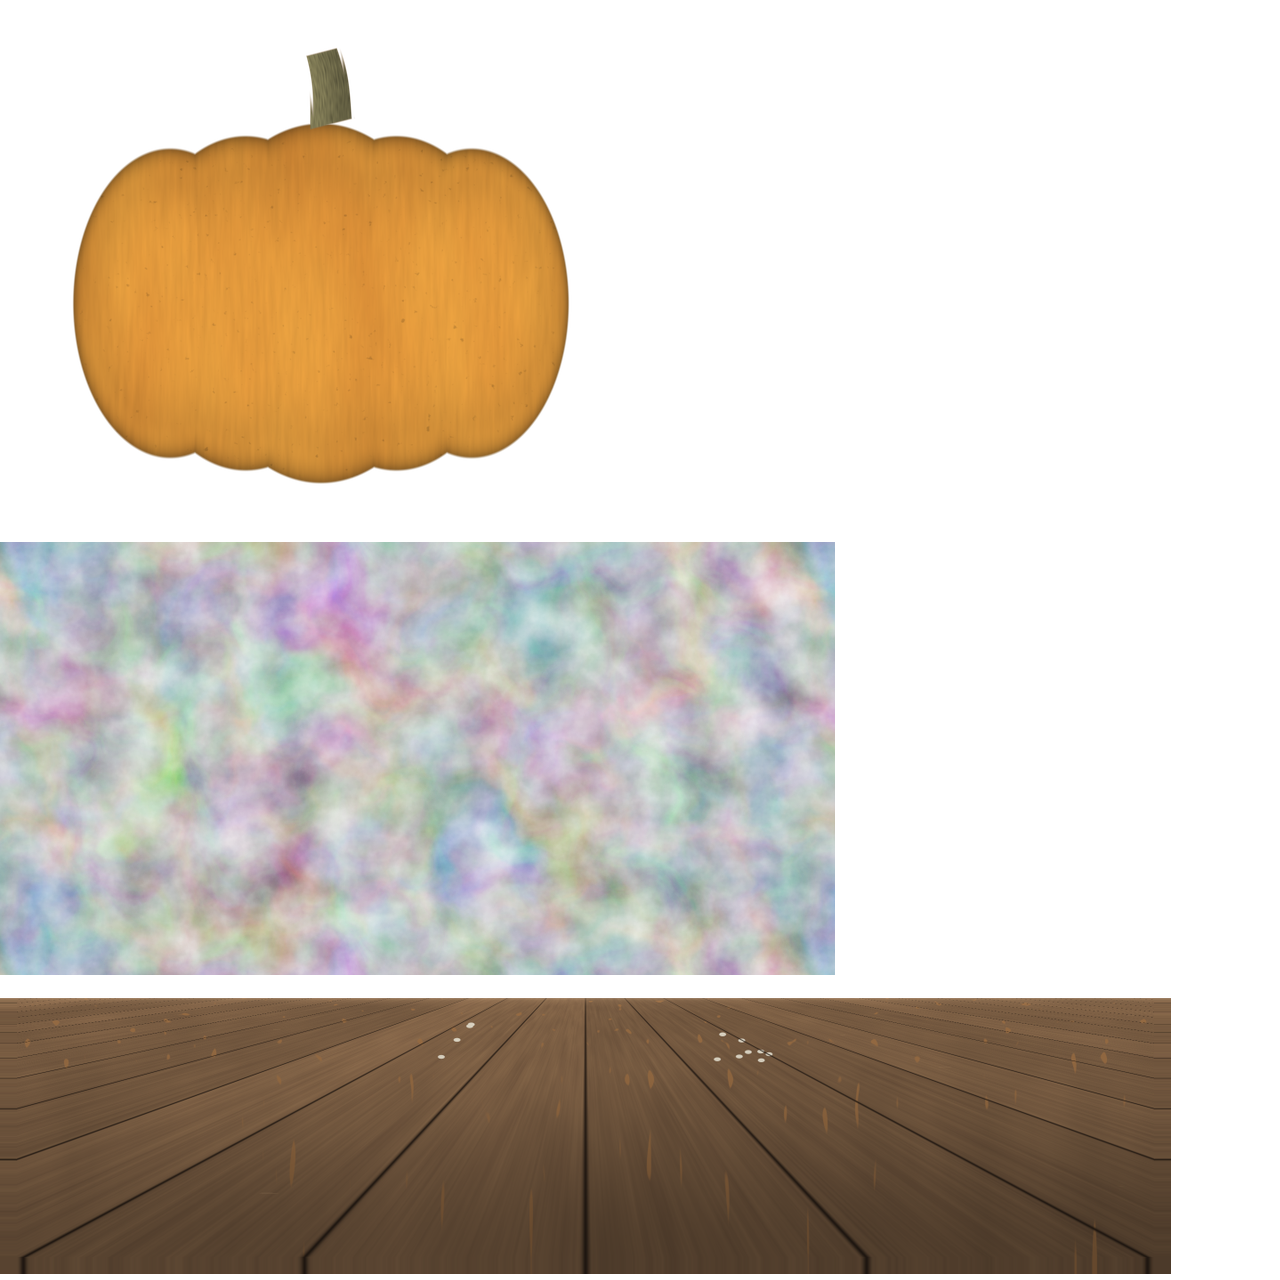
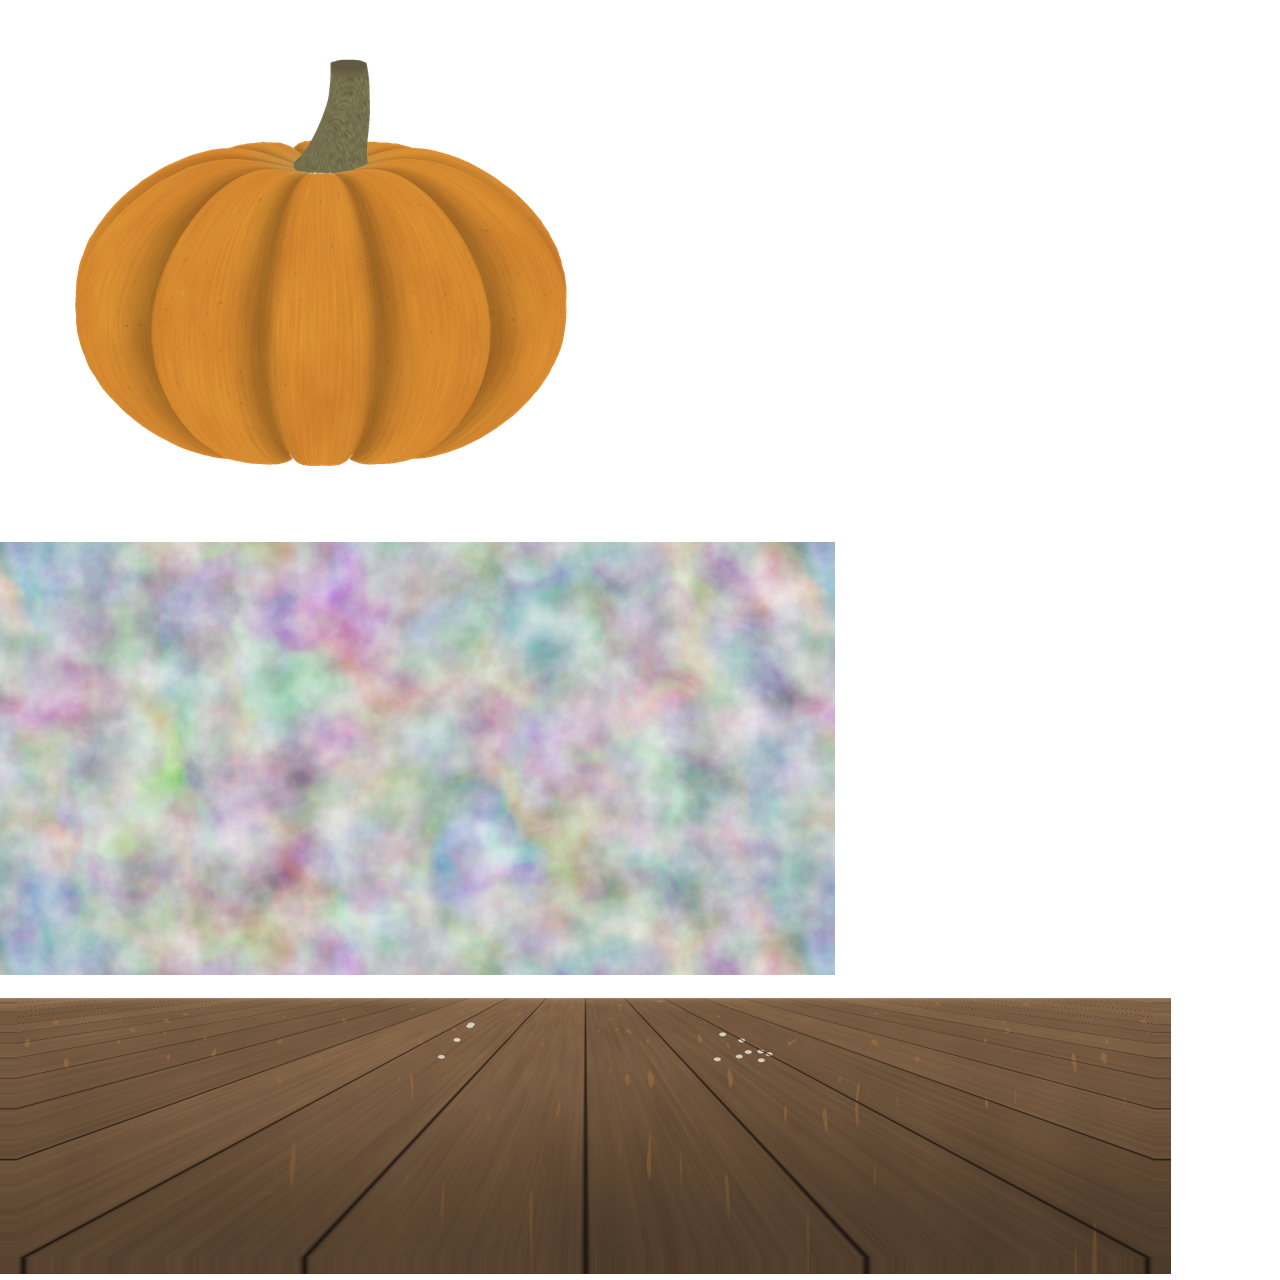
Halloween fase 21: calabazas en 3D (escenas 01 y 13)
La calabaza principal (reusada por la hilera) se hornea como solido 3D
por trazado de rayos: 10 gajos con surcos, hundido del tallo, tallo
retorcido, cara de arriba visible; normal real y oclusion de surcos para
la luz en vivo. En la 01 el tallado tiene grosor: la pared de pulpa se
ve en el borde de cada corte, iluminada por la vela. Comparacion en
docs/img/calabazas_2d_vs_3d.jpg.

Claude-Session: https://claude.ai/code/session_01NVP2u1MWPb16oy8b6RCqty

Changed region(s): [[0.0625, 0.0312, 0.4375, 0.375], [0.4375, 0.1875, 0.4688, 0.2812], [0.0312, 0.2188, 0.0625, 0.2812]]

diff --git a/td/tools/bake_plates_calabaza.py b/td/tools/bake_plates_calabaza.py
@@ -257,49 +257,85 @@ vec4 props(vec2 p){
 }
 
 // ---------------- calabaza principal ----------------
-float heroBody(vec2 q, out vec3 nrm, out float rib){
-  float body=1e3; nrm=vec3(0.,0.,1.); rib=1.;
-  for(int i=-2;i<=2;i++){
-    float fi=float(i);
-    vec2 c=vec2(fi*0.21,0.);
-    vec2 r=vec2(0.36-abs(fi)*0.045,0.50-abs(fi)*0.035);
-    vec2 d=(q-c)/r;
-    float e=(length(d)-1.)*min(r.x,r.y);
-    if(e<body){ body=e; float zz=sqrt(max(1.-dot(d,d),0.)); nrm=normalize(vec3(d*0.85,zz+0.15)); rib=zz; }
-  }
-  return body;
+// ---------- calabaza principal en 3D (trazado de rayos) ----------
+// Cuerpo achatado con 10 gajos y surcos hondos, hundido arriba y abajo,
+// tallo retorcido con estrias. La camara mira un poco desde arriba. Sale
+// el color SIN luz y el relieve (normal: x derecha, y arriba, z hacia el
+// publico) con la oclusion de los surcos; la luz (vela, luna, velas de la
+// mesa) la pone la escena en vivo.
+const vec3 PRD = vec3(0.0, -0.20, 0.98);
+const vec3 PR = vec3(0.70, 0.47, 0.60);       // radios del cuerpo
+float pkGroove(vec3 P){
+  float ph = atan(P.z, P.x);
+  return pow(abs(cos(ph*5.0)), 10.0);         // 1 en el surco
 }
-vec4 hero(vec2 q, int mode){
-  vec3 n; float rib;
-  float b=heroBody(q,n,rib);
-  float m=smoothstep(0.003,-0.003,b);
-  // estrias verticales finas, granos y cicatrices
-  float stri=fbm(vec2(q.x*70.,q.y*6.),4)-0.5;
-  float bump=fbm(q*36.,6)-0.5;
-  float scar=0.;
-  vec3 nn=normalize(n+vec3(stri*0.35+bump*0.25, bump*0.2, 0.)-vec3(0.,0.,scar*0.2));
-  // tallo retorcido
-  vec2 sq=rot(0.25)*(q-vec2(0.03,0.50));
-  float k=clamp(sq.y/0.22,0.,1.);
-  sq.x-=sin(k*2.0)*0.025;
-  float stem=max(abs(sq.x)-0.060*(1.-0.30*k)-0.004*sin(sq.x*400.), max(-sq.y, sq.y-0.20));
-  float sm=smoothstep(0.003,-0.003,stem);
-  if(mode==0){
-    vec3 alb=mix(vec3(0.70,0.25,0.03),vec3(0.95,0.45,0.06),fbm(q*vec2(4.,1.5),5));
-    alb*=0.85+0.25*stri;
-    alb=mix(alb,vec3(0.35,0.32,0.10),scar*0.6);
-    alb*=1.-0.3*smoothstep(0.65,0.82,fbm(q*55.,4));
-    alb*=mix(0.35,1.0,smoothstep(0.0,0.55,rib));     // surcos mas oscuros
-    alb*=0.9+0.2*smoothstep(0.6,0.95,rib);
-    vec3 stc=vec3(0.22,0.20,0.09)*(0.5+0.8*gn(vec2(sq.x*260.,sq.y*30.)))*(0.6+0.5*smoothstep(0.05,-0.05,sq.x));
-    vec3 c=mix(alb,stc,sm);
-    return vec4(pow(clamp(c,0.,1.),vec3(1./2.2)), max(m,sm));
+float pkBody(vec3 P){
+  vec3 q = P;
+  // hundido de arriba (donde nace el tallo) y de abajo
+  float rr = length(q.xz);
+  q.y -= 0.10*exp(-rr*rr/0.05)*sign(q.y)*-1.0;
+  float g = pkGroove(q);
+  // los surcos son mas hondos en el ecuador y se cierran en los polos
+  float eq = 1.0 - pow(abs(q.y)/PR.y, 4.0);
+  float sc = 1.0 - (0.085*g + 0.018*(1.0-abs(sin(atan(q.z,q.x)*5.0))))*clamp(eq,0.,1.);
+  float k = length(q/PR);
+  float d = (k - sc)*min(PR.x,min(PR.y,PR.z))*0.9;
+  if(d<0.02) d += (gn(vec2(atan(q.z,q.x)*40., q.y*30.))-0.5)*0.0028 + (gn(vec2(atan(q.z,q.x)*160., q.y*90.))-0.5)*0.0008;
+  return d;
+}
+float pkStem(vec3 P){
+  vec3 q = P - vec3(0.02, 0.36, 0.02);
+  float k = clamp(q.y/0.30, 0., 1.);
+  // se dobla y se retuerce al subir
+  q.x -= sin(k*1.9)*0.06; q.z -= sin(k*1.3)*0.02;
+  float ang = k*1.5;
+  vec2 xz = mat2(cos(ang),-sin(ang),sin(ang),cos(ang))*q.xz;
+  float a = atan(xz.y, xz.x);
+  float rad = mix(0.075, 0.045, k) * (1.0 + 0.10*abs(sin(a*3.0))) * (1.0 + 0.6*exp(-q.y*25.0));
+  float d = length(xz) - rad;
+  return max(d, max(-q.y, q.y-0.30)) * 0.8;
+}
+float pkSD(vec3 P, out float isStem){
+  float b = pkBody(P), st = pkStem(P);
+  isStem = step(st, b);
+  return min(b, st);
+}
+vec4 hero(vec2 qq, int mode){
+  vec3 ro = vec3(qq, 0.) - PRD*1.5;
+  float s = 0.; float hit = -1.; float isS = 0.; vec3 P;
+  for(int i=0;i<110;i++){
+    P = ro + PRD*s;
+    float d = pkSD(P, isS);
+    if(d<0.0004){ hit=s; break; }
+    s += max(d*0.7, 0.0008);
+    if(s>3.0) break;
   }
-  // relieve: RG normal, B oclusion de surcos, A cobertura
-  vec3 sn=normalize(vec3((gn(vec2(sq.x*260.,sq.y*30.))-0.5)*0.6, 0.0, 1.));
-  nn=normalize(mix(nn, sn, sm));
-  float ao=mix(0.35,1.0,smoothstep(0.0,0.6,rib));
-  return vec4(nn.xy*0.5+0.5, ao, max(m,sm));
+  if(hit<0.){ return mode==0 ? vec4(0.) : vec4(0.5,0.5,1.,0.); }
+  vec2 e = vec2(0.0008, 0.); float t2;
+  vec3 g = vec3(pkSD(P+e.xyy,t2)-pkSD(P-e.xyy,t2), pkSD(P+e.yxy,t2)-pkSD(P-e.yxy,t2), pkSD(P+e.yyx,t2)-pkSD(P-e.yyx,t2));
+  vec3 nw = normalize(g);
+  vec3 n = vec3(nw.x, nw.y, -nw.z);
+  float ph = atan(P.z, P.x);
+  float groove = pkGroove(P);
+  // oclusion: surcos, hundido del tallo y la base
+  float o1 = pkSD(P+nw*0.012,t2), o2 = pkSD(P+nw*0.04,t2);
+  float ao = clamp(0.35 + 0.65*(o1/0.012*0.45 + o2/0.04*0.55), 0., 1.);
+  ao *= mix(0.55, 1.0, smoothstep(-0.47, -0.20, P.y));
+  if(mode==1) return vec4(n.xy*0.5+0.5, ao, 1.);
+  vec3 c;
+  if(isS>0.5){
+    c = vec3(0.22,0.20,0.09)*(0.5+0.8*gn(vec2(ph*30., P.y*60.)))*(0.7+0.4*fbm(P.xy*40.,3));
+    c = mix(c, vec3(0.12,0.10,0.05), smoothstep(0.62,0.66,P.y));    // punta cortada, seca
+  } else {
+    vec2 uv = vec2(ph*1.6, P.y*2.0);
+    c = mix(vec3(0.66,0.20,0.02), vec3(0.92,0.40,0.04), fbm(uv*vec2(2.,1.5),5));
+    c *= 0.85 + 0.30*(fbm(vec2(ph*70., P.y*5.),4)-0.5);              // estrias a lo largo de los gajos
+    c = mix(c, vec3(0.55,0.42,0.12), smoothstep(0.70,0.85,fbm(uv*6.+3.,5))*0.5);   // manchas
+    c *= 1. - 0.3*smoothstep(0.65,0.82,fbm(uv*30.,4));
+    c *= mix(1.0, 0.55, groove);                                        // surco mas oscuro
+    c = mix(c, vec3(0.40,0.35,0.10), smoothstep(0.28,0.42,P.y)*smoothstep(0.25,0.0,length(P.xz))*0.6);   // verde cerca del tallo
+  }
+  return vec4(pow(clamp(c,0.,1.),vec3(1./2.2)), 1.);
 }
 
 void main(){

diff --git a/docs/53_SETS_Y_HALLOWEEN.md b/docs/53_SETS_Y_HALLOWEEN.md
@@ -479,3 +479,14 @@ Las lápidas de la escena 00 dejaron de ser siluetas con luz pintada: se hornean
 **Costo:** +5 % frente a la versión 2D en el banco de prueba (0,206 contra 0,195 s); el relieve entra en los mismos dos atlas, sin achicar nada (la luna pasó a 256 px). Hay que confirmar los FPS en TD. Si convence, el mismo camino sirve para las demás escenas con objetos sólidos (calabaza, mansión, troncos del bosque, torre del reloj).
 
 **Reconstruir Todo:** cambiaron las láminas de la escena 00.
+
+## Fase 21: calabazas en 3D (escenas 01 y 13)
+
+![Antes y ahora](img/calabazas_2d_vs_3d.jpg)
+
+La calabaza principal (que la 13 reusa en la hilera) ahora es un **sólido 3D** hecho por trazado de rayos en `bake_plates_calabaza.py`: cuerpo achatado con 10 gajos y surcos hondos que se cierran en los polos, hundido donde nace el tallo, tallo retorcido con estrías y la cara de arriba a la vista. La lámina `5_calabaza_relieve` guarda su normal real y la oclusión de los surcos; la luz de la vela, la luna y las velas de la mesa se calcula en vivo como antes, pero ahora marca cada gajo.
+
+- **El tallado tiene grosor (01):** en el borde de cada corte se ve la pared de pulpa iluminada por la vela, más ancha del lado hacia donde se curva la calabaza, con un canto oscuro del lado de la cáscara.
+- **Costo en el banco de prueba:** 01 igual que antes (~0,20 s); 13 sube ~20 % (0,20 → 0,245 s) porque la calabaza nueva tapa más superficie. Hay que confirmar los FPS en TD.
+- Después de hornear la 01 hay que correr `bake_plates_hilera.py` (copia la calabaza a la 13) y `build_atlas.py`.
+- **Reconstruir Todo:** cambiaron las láminas de 01 y 13.

diff --git a/CLAUDE.md b/CLAUDE.md
@@ -33,3 +33,4 @@ Trabajar en una rama; hacer **commit y push**. Desde el 21 de octubre de 2026: *
 - **Fase 18** (rama `claude/halloween-f18-morgue`, sobre f17): escena 29 morgue (luz de tubos en vivo con la profundidad horneada). 
 - **Fase 19** (rama `claude/halloween-f19-carnaval`, sobre f18): escena 30 carnaval abandonado (rueda, carrusel y focos en vivo; el payaso del clímax).
 - **Fase 20** (rama `claude/halloween-f20-cementerio-3d`, sobre f19): prueba de realismo en la escena 00: lápidas horneadas como sólidos 3D con normal, luz en vivo (`stoneLight`). Comparación en docs/img/cementerio_2d_vs_3d*.jpg.
+- **Fase 21** (rama `claude/halloween-f21-calabazas-3d`, sobre f20): calabaza 3D (01 y 13) y tallado con grosor en la 01. Plan de fases 22–28 (3D): 22 mansión, 23 reloj, 24 momia+esqueleto, 25 bosque+fantasmas, 26 castillo+tormenta, 27 manos+túnel, 28 velas+caldero(+sábanas morgue).
